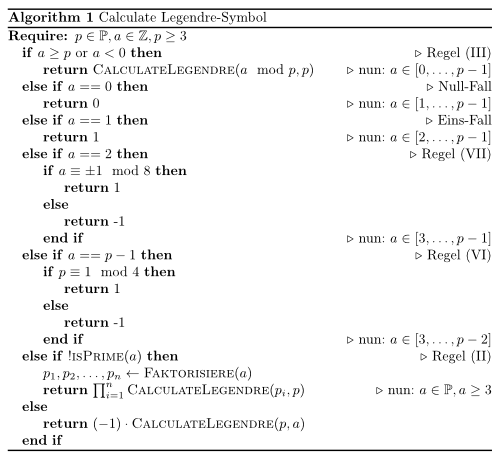
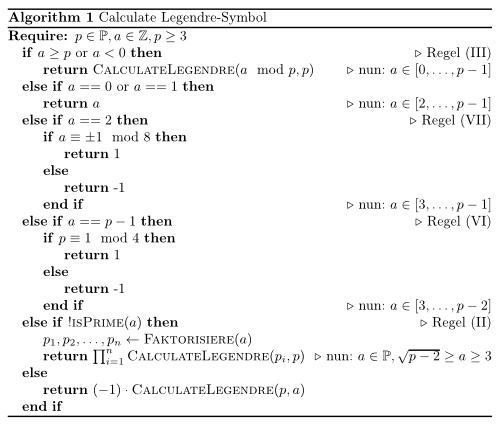
0 and 1-case are essentially one case

Changed region(s): [[0.0, 0.0, 0.99, 1.0], [0.69, 0.4588, 0.99, 0.5812]]

diff --git a/source-code/Pseudocode/Calculate-Legendre/Calculate-Legendre.tex b/source-code/Pseudocode/Calculate-Legendre/Calculate-Legendre.tex
@@ -28,10 +28,8 @@
             \Require $p \in \mathbb{P}, a \in \mathbb{Z}, p \geq 3$
             \If{$a \geq p$ or $a < 0$}\Comment{Regel (III)}
 				\State \Return $\Call{CalculateLegendre}{a \mod p, p}$ \Comment{nun: $a \in [0, \dots, p-1]$}
-			\ElsIf{$a == 0$} \Comment{Null-Fall}
-				\State \Return 0 \Comment{nun: $a \in [1, \dots, p-1]$}
-			\ElsIf{$a == 1$} \Comment{Eins-Fall}
-				\State \Return 1 \Comment{nun: $a \in [2, \dots, p-1]$}
+			\ElsIf{$a == 0$ or $a == 1$}
+				\State \Return $a$ \Comment{nun: $a \in [2, \dots, p-1]$}
 			\ElsIf{$a == 2$} \Comment{Regel (VII)}
 				\If{$a \equiv \pm 1 \mod 8$}
 					\State \Return 1
@@ -46,7 +44,7 @@
 				\EndIf \Comment{nun: $a \in [3, \dots, p-2]$}
 			\ElsIf{!$\Call{isPrime}{a}$} \Comment{Regel (II)}
 				\State $p_1, p_2, \dots, p_n \gets \Call{Faktorisiere}{a}$
-				\State \Return $\prod_{i=1}^n \Call{CalculateLegendre}{p_i, p}$ \Comment{nun: $a \in \mathbb{P}, a \geq 3$}
+				\State \Return $\prod_{i=1}^n \Call{CalculateLegendre}{p_i, p}$ \Comment{nun: $a \in \mathbb{P}, \sqrt{p-2} \geq a \geq 3$}
 			\Else
 				\State \Return $(-1) \cdot \Call{CalculateLegendre}{p, a}$
 			\EndIf
